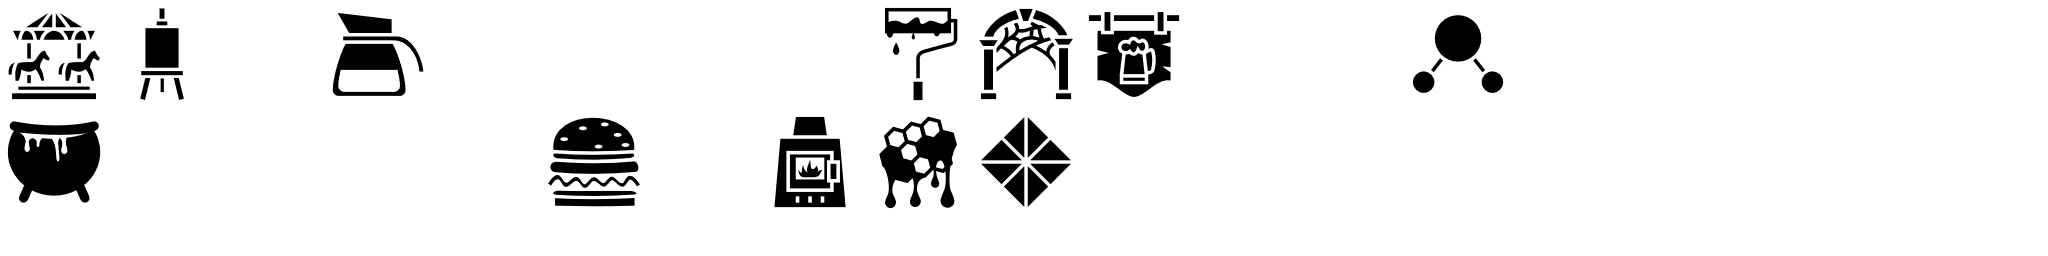
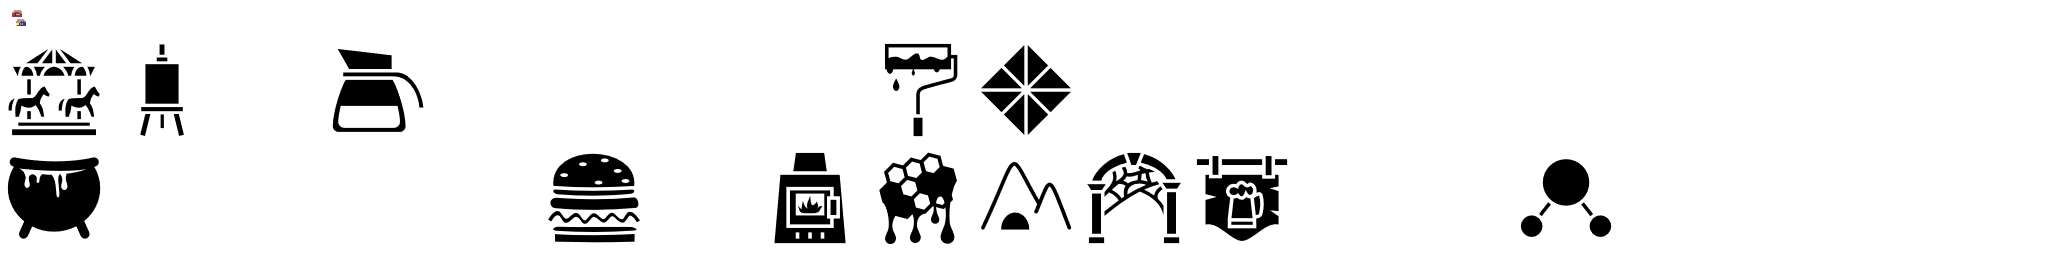
Swapped Mural Walls for an improvement for Desion

diff --git a/CREDITS.md b/CREDITS.md
@@ -1,6 +1,7 @@
 # Credits
 
 ## Social preview
+
 Fonts used Montserrat and Marko One
 
 ## Icon Credits
@@ -43,6 +44,11 @@ Unless otherwise specified, all the following are from [Game-icons.net](https://
 - [Stabbed note](https://game-icons.net/1x1/delapouite/stabbed-note.html) by Delapouite for Bounty
 - [Burning book](https://game-icons.net/1x1/lorc/burning-book.html) by Lorc for Burning Desire
 - [Anvil impact](https://game-icons.net/1x1/lorc/anvil-impact.html) by Lorc for Fresh Forged
+
+### Tile Improvements icon
+
+- [Mountain cave](https://game-icons.net/1x1/delapouite/mountain-cave.html) by Delapouite for Murals
+  - The pixel art of the overworld sprite is made by myself based on Ivory sprite, feel free to use it.
 
 ### Unused icons
 
